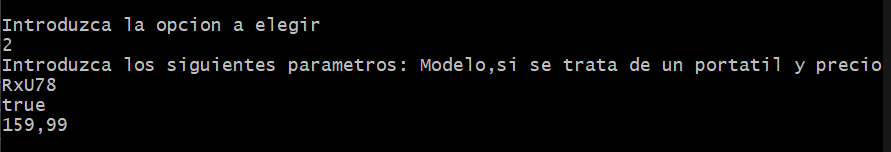
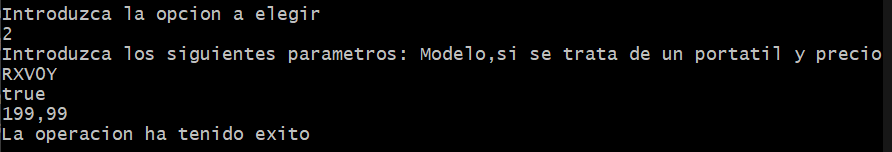
README modificado con nuevas imagenes

Changed region(s): [[0.0, 0.0263, 1.0, 0.9474]]

diff --git a/Proyecto Prog-I JoaquinDeVicenteAbad/src/interfaz/Interfaz.java b/Proyecto Prog-I JoaquinDeVicenteAbad/src/interfaz/Interfaz.java
@@ -10,7 +10,7 @@ import dominio.*;
 
 public class Interfaz {
 /* La clase Interfaz contiene la interfaz de texto que permite al usuario gestionar
- * el catalogo y trabajar con el.
+ * el catalogo y trabajar con el. Trabaja sobre un objeto tipo ListaOrdenadores.
  * 
  * Tiene un contructor que ejecuta su metodo leerPadron.
  * 
@@ -18,14 +18,17 @@ public class Interfaz {
  * del usuario y que solo se rompe cuando el usuario lo desea.
  * 
  * Ademas este metodo permite añadir un ordenador dado el indice que le corresponde, 
- * eliminar un ordenador de la misma manera, imprimir el catalogo para mostrar este indice,
+ * eliminar un ordenador de la misma manera, imprimir por pantalla el catalogo,
  * modificar un atributo de un ordenador dado su indice y cerrar el programa guardando los cambios.
  * 
  * 
  * Un metodo leerPadron que crea un objeto ObjectInputStream para leer los datos objecto del fichero
- * CATALOGO.dat. En caso de fallar en cargar los datos a catalogo lo inicializa.
+ * CATALOGO.dat. En caso de fallar en cargar los datos a catalogo porque no exista el archivo lo inicializa.
+ * 
  * Un metodo escribirPadron que crea un objeto ObjectOutputStream para guardar nuestro objeto
- * ListaOrdenadores en un archivo llamado CATALOGO.dat.
+ * ListaOrdenadores en un archivo llamado CATALOGO.dat. (Lo crea si no existe, metodo FileOutputStream)
+ * 
+ * Un metodo exito para indicar que la operacion se ha realizado.
  */
     private ListaOrdenadores catalogo;
     private Scanner sc = new Scanner(System.in);
@@ -59,7 +62,7 @@ public class Interfaz {
                     int y=0;
                     System.out.println(catalogo.toString()); //Imprime el catalogo
                     System.out.println("Introduzca el indice asignado al ordenador en el catalogo: ");
-                    y=sc.nextInt()-1;
+                    y=sc.nextInt()-1; //calcula el valor en el Array dado el indice
                     if(y>=0 && y<catalogo.Size()){ //Verifica que y(ordenador) existe en el ArrayList
                         
                         catalogo.eliminar(y);
@@ -79,25 +82,25 @@ public class Interfaz {
                         
                         System.out.println("Que deseas modificar: \n1. Modelo \n2. Portatil \n3. Precio");
                         z = sc.nextInt();
-                        if(z==1){
+                        if(z==1){ //modificar en nombre del modelo
                             
                             System.out.println("Introduzca el nuevo modelo");
                             catalogo.modificarModelo(y,sc.next());
                             exito();
                         }
-                        else if(z==2){
+                        else if(z==2){ //modificar si se trata de un portatil
                             
                             catalogo.modificarPortatil(y);
                             exito();
                         }
-                        else if(z==3){
+                        else if(z==3){ // modificar el precio
                            
                             System.out.println("Introduzca el nuevo precio");
                             catalogo.modificarPrecio(y,sc.nextDouble());
                             exito();
-                        }else if (z>3 || z<1){
+                        }else{
                             
-                            System.out.println("Opcion no valida"); 
+                            System.out.println("Opcion no valida\n"); 
                         }
                     }else{
                         
@@ -105,13 +108,15 @@ public class Interfaz {
                     }
 
                 }
-                else if(x==0){ // Se cierra el interfaz y se guarda el objeto
-                    
+                else if(x==0){ 
+                    // Se cierra el interfaz y se guarda el objeto
                     System.out.println("Guardando datos y cerrando menu");
                     escribirPadron();
-                    break;
+                    exito();
+                    break; //Se rompe el bucle while
                 }
-                else{ // Estructura de control para valores fuera de rango
+                else{ 
+                    // Estructura de control para valores fuera de rango
                     System.out.println("\n \n OPCION NO VALIDA \n \n");
                 }
             }catch(InputMismatchException ex){  //Maneja la introduccion de datos invalidos
@@ -123,7 +128,7 @@ public class Interfaz {
     sc.close();
     }
     private void leerPadron(){
-
+        //Lee los datos y inicializa catalogo como los datos del fichero o si falla en hacerlo lo inicializa en vacio
         ObjectInputStream oi;
         try{
             oi = new ObjectInputStream(new FileInputStream("CATALOGO.dat")); 
@@ -134,7 +139,7 @@ public class Interfaz {
         }
     }
     private void escribirPadron(){
-
+        //Guarda el objeto
         ObjectOutputStream oo;
         try{
             oo= new ObjectOutputStream(new FileOutputStream("CATALOGO.dat"));
@@ -143,7 +148,7 @@ public class Interfaz {
         } catch (Exception e){ System.out.print("Error al guardar los datos en el fichero");}
     }
     private void exito(){
-        
+        //Imprime que la operacion se ha realizado
         System.out.println("La operacion ha tenido exito\n");
     }
 }

diff --git a/Proyecto Prog-I JoaquinDeVicenteAbad/src/dominio/Ordenador.java b/Proyecto Prog-I JoaquinDeVicenteAbad/src/dominio/Ordenador.java
@@ -20,8 +20,8 @@ public class Ordenador implements Serializable {
         
         this.modelo=modelo;
     }
-    public void setPortatil(){ //Como el constructor siempre define un valor podemos cambiarlo por el contrario
-        
+    public void setPortatil(){
+        //Como el constructor siempre define un valor cambia el valor por el contrario
         if(portatil == false){
             portatil = true;
         }else{
@@ -48,7 +48,7 @@ public class Ordenador implements Serializable {
 
     public String toString(){
         
-        return "{Modelo: "+modelo+" Portatil: "+portatil+" Precio: "+precio+"}";
+        return "{Modelo: "+modelo+", Portatil: "+portatil+", Precio: "+precio+"}";
     }
 
 }

diff --git a/Proyecto Prog-I JoaquinDeVicenteAbad/README.md b/Proyecto Prog-I JoaquinDeVicenteAbad/README.md
@@ -20,20 +20,20 @@ el codigo.
 ## Ejemplos de uso
 
 Una vez tenemos el codigo en ejecucion veremos el siguiente contenido:
-![Imagen que muestra el menu por pantalla](imagenes/image-1.png)
+![Imagen que muestra el menu por pantalla](imagenes/image.png)
 
 Para mostrar lo que tenemos en nuestro catalogo introduciremos el numero correspondiente: 1
 ![Catalogo con un ordenador](imagenes/image-2.png)
 
-Introducimos un nuevo ordenador en nuestro catalogo
-![menu para añadir](imagenes/image-3.png)
+Introducimos un nuevo ordenador en nuestro catalogo: 2
+![Introduccion de un ordenador](imagenes/image-3.png)
 ![Nuevo catalogo](imagenes/image-4.png)
 
 Por ultimo modificamos para indicar que el segundo elemento no se trata de un portatil
-![menu de modificacion](imagenes/image-5.png)
+![Menu de modificacion](imagenes/image-5.png)
 ![nuevo catalogo](imagenes/image-6.png)
 
-Cerramos el programa y guardamos los datos.
+Cerramos el programa y se guardan los datos.
 ![Menu de guardado](imagenes/image-7.png)
 ## Documentacion
 
